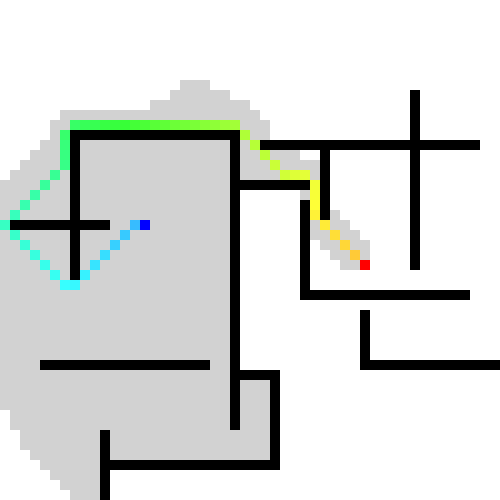
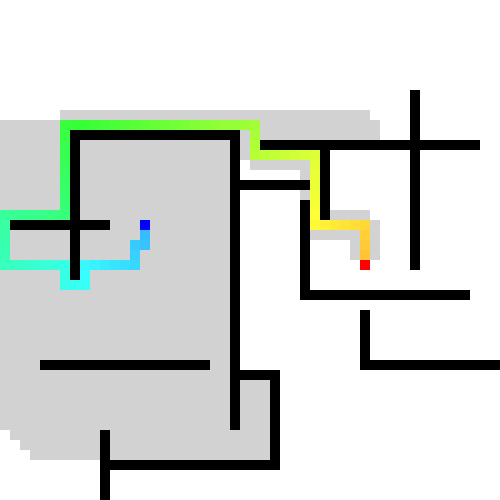
Updated the image assets.

diff --git a/main.cpp b/main.cpp
@@ -30,7 +30,7 @@ const string BRAIN_FUCKING[] = {
         "/Users/makito/Temp/Astar/Map_Brain_Fucking_Path.png"
 };
 
-const int ALLOW_VERTEX_PASSTHROUGH = 1;
+const int ALLOW_VERTEX_PASSTHROUGH = 0;
 const int NODE_FLAG_CLOSED = -1;
 const int NODE_FLAG_UNDEFINED = 0;
 const int NODE_FLAG_OPEN = 1;
@@ -43,7 +43,7 @@ const int NODE_TYPE_END = 3;
 const int G_DIRECT = 10;
 const int G_SKEW = 14;
 
-const string *FILE_PATH = M50_3;
+const string *FILE_PATH = M50_1;
 
 class MapNode {
 public:
